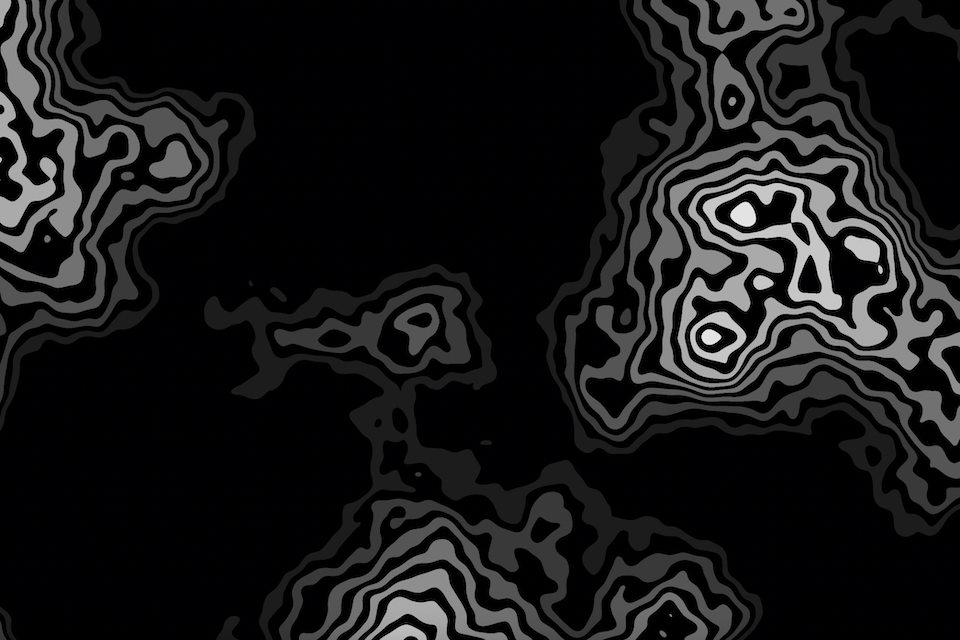
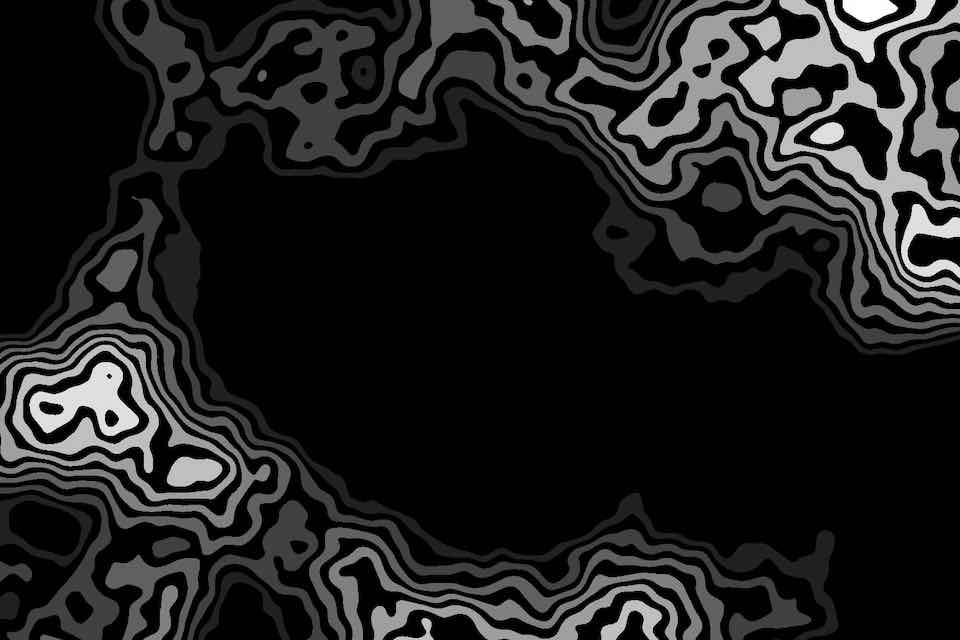
added etch-a-sketch-project

diff --git a/etch/index.js b/etch/index.js
@@ -1,0 +1,198 @@
+const regl = createREGL({attributes: {antialies: false}, extensions: 'OES_texture_float'});
+
+let stateWidth = Math.floor(window.innerWidth);
+let stateHeight = Math.floor(window.innerHeight);
+let size = stateWidth * stateHeight;
+
+let initialData = (new Float32Array(size * 4)).fill().map(() => 0);
+/* X: direction of growth
+ *  0: no growth
+ *  1: up
+ *  2: right
+ *  3: down
+ *  4: left
+*/
+
+initialData[2 * size - 4] = Math.random();
+initialData[2 * size - 3] = Math.random();
+initialData[2 * size - 2] = Math.random();
+initialData[2 * size - 1] = 4;
+
+const state = (Array(2)).fill().map(() => {
+    return regl.framebuffer({
+        color: regl.texture({
+            width: stateWidth,
+            height: stateHeight,
+            data: initialData,
+        }),
+        depthStencil: false,
+    })
+});
+
+const grow = regl({
+    frag: `
+        precision highp float;
+        uniform sampler2D prevState;
+        uniform float time;
+        uniform float seed;
+        uniform float width;
+        uniform float height;
+        uniform float branchChance;
+        uniform float haltChance;
+        uniform float restartChance;
+        uniform vec3 colorMagnitude;
+        uniform vec3 colorOffset;
+        varying vec2 uv;
+
+        float rand(vec2 co){
+            return fract(sin(dot(co, vec2(12.989819, 78.23433))) * 43758.532453);
+        }
+
+        void main() {
+            vec2 offset = vec2(1.0/width, 1.0/height);
+
+            vec2 upVec = vec2(0.0, offset.y);
+            vec2 downVec = vec2(0.0, -offset.y);
+            vec2 rightVec = vec2(offset.x, 0.0);
+            vec2 leftVec = vec2(-offset.x, 0.0);
+
+            float up = 1.0;
+            float down = 3.0;
+            float right = 2.0;
+            float left = 4.0;
+
+            vec4 data = texture2D(prevState, uv);
+            vec4 upData = texture2D(prevState, uv + upVec);
+            vec4 downData = texture2D(prevState, uv + downVec);
+            vec4 rightData = texture2D(prevState, uv + rightVec);
+            vec4 leftData = texture2D(prevState, uv + leftVec);
+
+            vec3 color = data.xyz;
+            float direction = data.w;
+
+            if (direction < 0.0) {
+                float q = rand(2.5*uv + vec2(time, -seed)/1000.0 + 324.0);
+                if (q > 1.0 - restartChance) {
+                    direction = -direction;
+                }
+            }
+
+            if (direction == 0.0) {
+                direction = upData.w == down ? down : direction; 
+                direction = downData.w == up ? up : direction; 
+                direction = rightData.w == left ? left : direction; 
+                direction = leftData.w == right ? right : direction; 
+                color = upData.w == down ? upData.xyz : color; 
+                color = downData.w == up ? downData.xyz : color; 
+                color = rightData.w == left ? rightData.xyz : color; 
+                color = leftData.w == right ? leftData.xyz : color; 
+
+                if (direction > 0.0) {
+                    float s = rand(3.8*uv + vec2(-time, seed)/1000.0 + 113.0);
+                    if (s > 1.0 - haltChance) {
+                        direction = -direction;
+                    }
+                }
+            }
+
+            float r = rand(uv + vec2(time + seed)/1000.0);
+
+            if (direction == 0.0 && r > 1.0 - branchChance && upData.w + downData.w + rightData.w + leftData.w > 0.0) {
+                direction = upData.w > 0.0 ? down : direction; 
+                direction = downData.w > 0.0 ? up : direction; 
+                direction = rightData.w > 0.0 ? left : direction; 
+                direction = leftData.w > 0.0 ? right : direction; 
+                color = upData.w > 0.0 ? upData.xyz : color; 
+                color = downData.w > 0.0 ? downData.xyz : color; 
+                color = rightData.w > 0.0 ? rightData.xyz : color; 
+                color = leftData.w > 0.0 ? leftData.xyz : color; 
+                
+                if (direction > 0.0) {
+                    float x = rand(-13.3 * uv + vec2(2.1 * time - 1.3 * seed)/1000.0 + 314.0);
+                    float y = rand(-23.3 * uv + vec2(-1.3 * time + 1.8 * seed)/1000.0 + 234.0);
+                    float z = rand(8.3 * uv + vec2(-0.9 * time - 2.3 * seed)/1000.0 + 554.0);
+                    color += colorMagnitude * (colorOffset + vec3(x, y, z));
+                }
+            }
+            
+            gl_FragColor = vec4(color, direction);
+        }`,
+
+    vert: `
+        precision mediump float;
+        attribute vec2 position;
+        varying vec2 uv;
+
+        void main() {
+            uv = (position + 1.0) * 0.5;
+            gl_Position = vec4(position, 0.0, 1.0);
+        }`,
+
+    attributes: {
+        position: [
+            -4, 0,
+            4, 4,
+            4, -4
+        ]
+    },
+
+    uniforms: {
+        prevState: ({tick}) => state[(tick) % 2], 
+        time: ({tick}) => tick,
+        seed: () => Math.random() * 10**4,
+        width: () => stateWidth,
+        height: () => stateHeight,
+        branchChance: ({tick}) => tick > 2500 ? 0.1 : 0.001,
+        haltChance: 0.01,
+        restartChance: 0.05,
+        colorMagnitude: [-0.29, 0.35, 0.32],
+        colorOffset: [-0.3, -0.2, -0.3],
+    },
+
+    framebuffer: ({tick}) => state[(tick + 1) % 2],
+
+    count: 3,
+});
+
+const draw = regl({
+    frag: `
+        precision mediump float;
+        uniform sampler2D state;
+        varying vec2 uv;
+
+        void main() {
+            vec4 data = texture2D(state, uv);
+            vec3 color = data.xyz;
+            color = 2.0 * abs(color/2.0 - floor(color/2.0 + 0.5));
+            gl_FragColor = vec4(color, 1.0);
+        }`, 
+
+    vert: `
+        precision mediump float;
+        attribute vec2 position;
+        varying vec2 uv;
+
+        void main() {
+            uv = (position + 1.0) * 0.5;
+            gl_Position = vec4(position, 0.0, 1.0);
+        }`,
+
+    attributes: {
+        position: [
+            -4, 0,
+            4, 4,
+            4, -4
+        ]
+    },
+
+    uniforms: {
+        state: ({tick}) => state[(tick + 1) % 2],
+    },
+
+    count: 3,
+})
+
+regl.frame(() => {
+    grow();
+    draw();
+});

diff --git a/etch/index.html b/etch/index.html
@@ -1,0 +1,14 @@
+<!doctype html>
+<html lang="en">
+    <head>
+        <meta charset="utf-8">
+        <title>brian-houston.github.io</title>
+        <link href="https://cdn.jsdelivr.net/npm/bootstrap@5.0.1/dist/css/bootstrap.min.css" rel="stylesheet" integrity="sha384-+0n0xVW2eSR5OomGNYDnhzAbDsOXxcvSN1TPprVMTNDbiYZCxYbOOl7+AMvyTG2x" crossorigin="anonymous">
+        <link rel="stylesheet" href="/style/style.css">
+    </head>
+
+    <body>
+        <script language="javascript" src="https://npmcdn.com/regl/dist/regl.min.js"></script>
+        <script src="./index.js"></script>
+    </body>
+</html>

diff --git a/projects/metadata.js b/projects/metadata.js
@@ -29,6 +29,14 @@ const metadata = [
         thumbnail: "thumbnails/president.jpg",
         address: "https://observablehq.com/@brian-houston/presidential-election-shifts-2000-2020",
         sortWeight: 400,
+    },
+
+    {
+        name: "Etch-A-Sketch",
+        description: "Lines grow from lines and change color",
+        thumbnail: "thumbnails/etch.jpg",
+        address: "/etch",
+        sortWeight: 600,
     }
 ]
 
